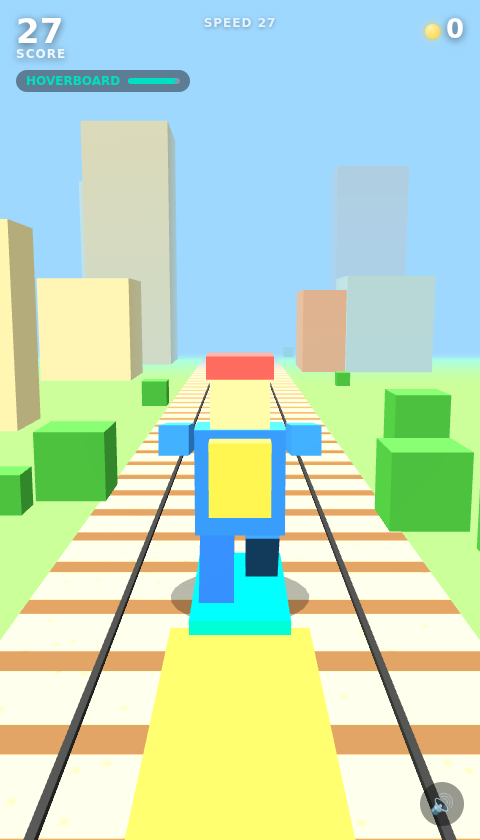
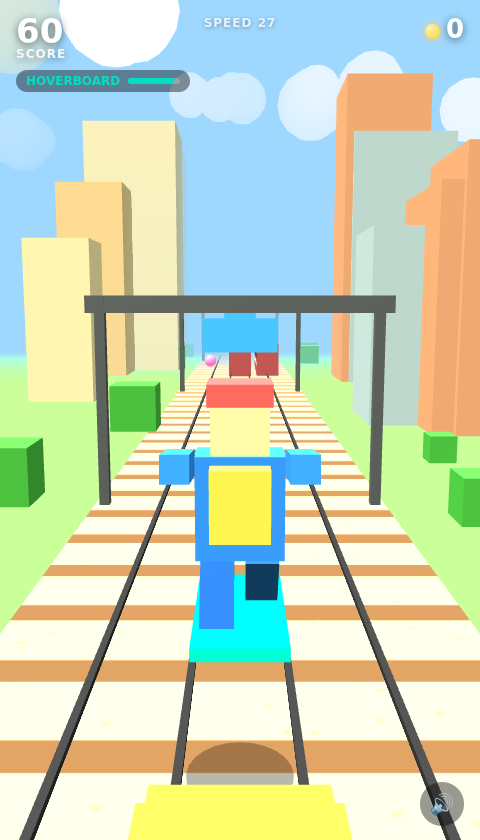
Polish Dash Runner 3D visuals toward a closer Subway Surfers look
- Detailed train cars: rounded roof cap, dark window band, white livery
  stripe, headlights and door seams (roof top still lands exactly at topY so
  roof-running is unaffected)
- Added a sun, drifting clouds, and recycling overhead signal gantries
  spanning the track for the classic subway-yard depth
- Moved shared GEO geometry declaration above the scenery/gantry setup that
  now uses it (fixes a use-before-declared crash)
- Refreshed screenshots; README and DESIGN.md updated

Verified headless (WebGL/SwiftShader): no console errors, game runs, all five
power-ups activate, and the player still lands and runs on a train roof.

Claude-Session: https://claude.ai/code/session_01KDCDw29dQ77SUYVKU1ph8Z

diff --git a/subway-runner/index-3d.html b/subway-runner/index-3d.html
@@ -212,6 +212,43 @@
           m.userData.side = side;
         }
 
+        // shared geometries (declared here so scenery/gantries can use them)
+        const GEO = { box: new THREE.BoxGeometry(1, 1, 1), coin: new THREE.CylinderGeometry(0.4, 0.4, 0.1, 18), orb: new THREE.SphereGeometry(0.48, 16, 16) };
+
+        // sun + clouds
+        const sunMesh = new THREE.Mesh(new THREE.SphereGeometry(6, 20, 20), new THREE.MeshBasicMaterial({ color: 0xfff3c0 }));
+        sunMesh.position.set(-26, 38, -78); scene.add(sunMesh);
+        function makeCloud() {
+          const g = new THREE.Group();
+          const m = new THREE.MeshBasicMaterial({ color: 0xffffff });
+          for (let i = 0; i < 4; i++) {
+            const s = new THREE.Mesh(new THREE.SphereGeometry(2 + Math.random() * 1.6, 8, 8), m);
+            s.position.set((Math.random() - 0.5) * 7, (Math.random() - 0.5) * 1.5, (Math.random() - 0.5) * 3); g.add(s);
+          }
+          return g;
+        }
+        for (let i = 0; i < 5; i++) {
+          const c = makeCloud();
+          c.position.set((Math.random() - 0.5) * 60, 20 + Math.random() * 10, -40 - Math.random() * 50); scene.add(c);
+        }
+
+        // overhead signal gantries / arches spanning the yard (decorative, no collision)
+        const gantries = [];
+        const gantryMat = new THREE.MeshStandardMaterial({ color: 0x8a8f99, roughness: 0.6, metalness: 0.5 });
+        function makeGantry() {
+          const g = new THREE.Group();
+          [-1, 1].forEach((s) => {
+            const post = new THREE.Mesh(GEO.box, gantryMat);
+            post.scale.set(0.3, 6.2, 0.3); post.position.set(s * (LANE_X * 1.5 + 0.5), 3.1, 0); g.add(post);
+          });
+          const beam = new THREE.Mesh(GEO.box, gantryMat);
+          beam.scale.set(LANE_X * 3 + 1.8, 0.5, 0.45); beam.position.y = 6; g.add(beam);
+          const sign = new THREE.Mesh(GEO.box, new THREE.MeshStandardMaterial({ color: 0x2f80ed, emissive: 0x102a5a }));
+          sign.scale.set(2.2, 1.0, 0.16); sign.position.y = 5.1; g.add(sign);
+          return g;
+        }
+        for (let i = 0; i < 4; i++) { const g = makeGantry(); g.position.z = -22 - i * 30; scene.add(g); gantries.push(g); }
+
         // ---------- Character ----------
         function mat(c) { return new THREE.MeshStandardMaterial({ color: c, roughness: 0.65 }); }
         function buildRunner(skin) {
@@ -247,8 +284,7 @@
 
         function applySkin(idx) { scene.remove(runner); runner = buildRunner(SKINS[idx]); scene.add(runner); }
 
-        // ---------- Shared geo ----------
-        const GEO = { box: new THREE.BoxGeometry(1, 1, 1), coin: new THREE.CylinderGeometry(0.4, 0.4, 0.1, 18), orb: new THREE.SphereGeometry(0.48, 16, 16) };
+        // ---------- Shared materials ----------
         const coinMat = new THREE.MeshStandardMaterial({ color: 0xffd54a, roughness: 0.25, metalness: 0.7, emissive: 0x6a4e00 });
 
         const POWER = {
@@ -281,11 +317,35 @@
 
         function makeTrainMesh(profile) {
           const grp = new THREE.Group();
-          const body = new THREE.Mesh(GEO.box, new THREE.MeshStandardMaterial({ color: profile.color, roughness: 0.45, metalness: 0.25 }));
-          body.scale.set(profile.hw, profile.hy, profile.len); body.position.y = profile.hy / 2; grp.add(body);
-          const win = new THREE.Mesh(GEO.box, new THREE.MeshStandardMaterial({ color: 0x2b2f38, roughness: 0.2, metalness: 0.5 }));
-          win.scale.set(profile.hw + 0.02, profile.hy * 0.32, profile.len * 0.86);
-          win.position.y = profile.hy * 0.62; grp.add(win);
+          const w = profile.hw, h = profile.hy, len = profile.len;
+          const bodyMat = new THREE.MeshStandardMaterial({ color: profile.color, roughness: 0.4, metalness: 0.3 });
+          // main body (roof top lands exactly at h = topY)
+          const body = new THREE.Mesh(GEO.box, bodyMat);
+          body.scale.set(w, h * 0.86, len); body.position.y = h * 0.43; grp.add(body);
+          // rounded roof cap
+          const roof = new THREE.Mesh(GEO.box, bodyMat);
+          roof.scale.set(w * 0.86, h * 0.2, len * 0.98); roof.position.y = h * 0.9; grp.add(roof);
+          // dark tinted window band
+          const win = new THREE.Mesh(GEO.box, new THREE.MeshStandardMaterial({ color: 0x1e2733, roughness: 0.15, metalness: 0.6 }));
+          win.scale.set(w + 0.03, h * 0.3, len * 0.82); win.position.y = h * 0.62; grp.add(win);
+          // white livery stripe
+          const stripe = new THREE.Mesh(GEO.box, new THREE.MeshStandardMaterial({ color: 0xf5f5f5, roughness: 0.5 }));
+          stripe.scale.set(w + 0.04, h * 0.09, len * 0.9); stripe.position.y = h * 0.32; grp.add(stripe);
+          // headlights at the leading (-z) end
+          const lightMat = new THREE.MeshStandardMaterial({ color: 0xfff3b0, emissive: 0xffe066, emissiveIntensity: 0.9 });
+          [-0.5, 0.5].forEach((sx) => {
+            const l = new THREE.Mesh(GEO.box, lightMat);
+            l.scale.set(w * 0.22, h * 0.13, 0.12); l.position.set(sx * w * 0.34, h * 0.28, -len / 2 - 0.02); grp.add(l);
+          });
+          // door seams
+          const doorMat = new THREE.MeshStandardMaterial({ color: 0x000000, transparent: true, opacity: 0.18 });
+          const doors = Math.max(1, Math.round(len / 3));
+          for (let i = 0; i < doors; i++) {
+            const d = new THREE.Mesh(GEO.box, doorMat);
+            d.scale.set(w + 0.02, h * 0.5, 0.08);
+            d.position.set(0, h * 0.4, -len / 2 + (i + 0.5) * (len / doors));
+            grp.add(d);
+          }
           return grp;
         }
         function addObstacle(lane, kind) {
@@ -453,6 +513,7 @@
           for (const c of coins) { c.z += dz; c.mesh.position.z = c.z; }
           for (const p of powerups) { p.z += dz; p.mesh.position.z = p.z; }
           for (const s of scenery) { s.position.z += dz; if (s.position.z > CAM.z + 8) resetScenery(s, s.userData.side, s.position.z - 100 - Math.random() * 12); }
+          for (const g of gantries) { g.position.z += dz; if (g.position.z > CAM.z + 6) g.position.z -= 4 * 30; }
 
           nextSpawn -= dz;
           if (nextSpawn <= 0) { spawnRow(); nextSpawn = Math.max(12, 21 - distance * 0.004); }

diff --git a/subway-runner/README.md b/subway-runner/README.md
@@ -11,11 +11,12 @@ both self-contained and offline — no build step, no server, no network:
 ![3D gameplay](./screenshot-3d.png)
 
 The 3D version is a faithful Subway-Surfers-style runner set in a bright, sunny
-**train yard**: gravel track with wooden sleepers and steel rails, bushes and
-buildings. It features an animated blocky runner (backpack + cap) with **4
-selectable skins**, a **5-power-up system** (hoverboard · jetpack · magnet ·
-score ×2 · super-jump), and **synthesized sound effects & music** (Web Audio, no
-audio files).
+**train yard**: gravel track with wooden sleepers and steel rails, detailed
+train cars (window bands, livery stripes, headlights), overhead signal gantries,
+sun, clouds, bushes and buildings. It features an animated blocky runner
+(backpack + cap) with **4 selectable skins**, a **5-power-up system** (hoverboard
+· jetpack · magnet · score ×2 · super-jump), and **synthesized sound effects &
+music** (Web Audio, no audio files).
 
 Its signature move: **jump onto the trains and run along the roofs.**
 

diff --git a/subway-runner/DESIGN.md b/subway-runner/DESIGN.md
@@ -99,7 +99,10 @@ sunny **train yard** to match the Subway-Surfers feel.
 - **Scene**: perspective camera trailing the runner (it also rises with the
   player so roof-running reads well), hemisphere + directional light, sky-blue
   fog, a scrolling `CanvasTexture` gravel/sleeper track, four steel rails, grass
-  strips, and a pool of recycling buildings + bushes for parallax depth.
+  strips, a sun, clouds, recycling overhead signal gantries spanning the track,
+  and a pool of recycling buildings + bushes for parallax depth. Trains are
+  built as detailed cars (rounded roof, dark window band, white livery stripe,
+  headlights and door seams).
 - **Character**: an articulated blocky runner (torso, backpack, head, cap, two
   arms and two legs on pivots). A run cycle swings the limbs via `sin(phase)`;
   jumping tucks the legs, rolling rotates the whole body forward. **Four skins**
